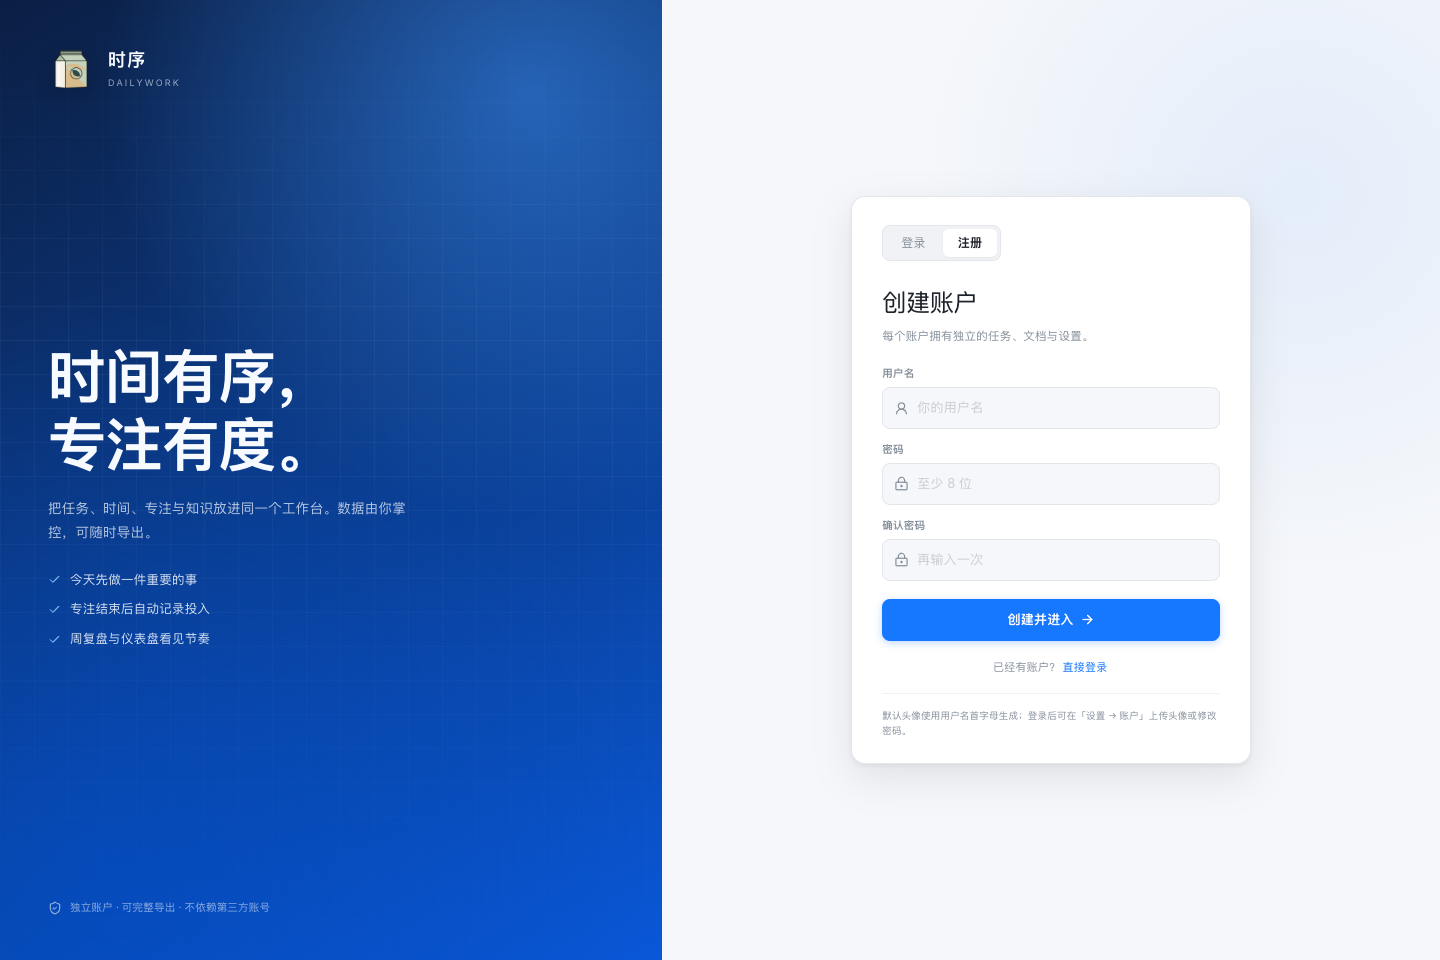
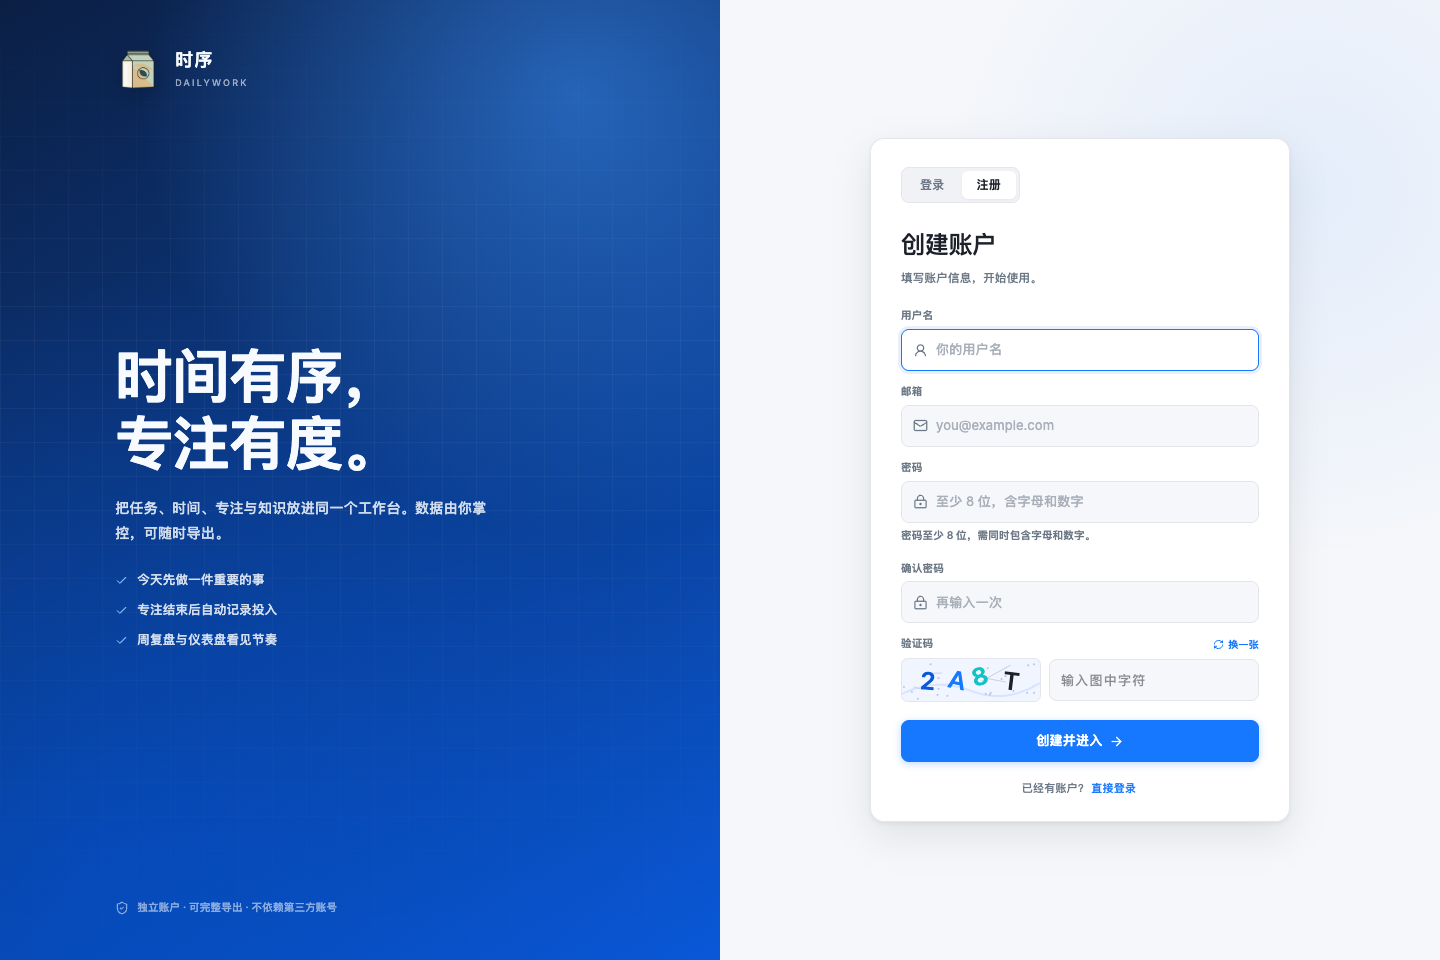
test(auth): cover email, password and captcha flows
- update browser setup and registration journey with required email
- disable captcha only in the test server while covering it in Vitest
- refresh registration screenshots for the wide-screen layout

diff --git a/e2e/auth-ui.spec.ts b/e2e/auth-ui.spec.ts
@@ -9,7 +9,8 @@ test.describe.serial('accounts', () => {
     await expect(page.locator('.auth-shell')).toBeVisible()
     await page.getByRole('tab', { name: '注册' }).click()
     await page.getByPlaceholder('你的用户名').fill(username)
-    await page.getByPlaceholder('至少 8 位').fill(password)
+    await page.getByPlaceholder('you@example.com').fill(`${username}@example.com`)
+    await page.getByPlaceholder('至少 8 位，含字母和数字').fill(password)
     await page.getByPlaceholder('再输入一次').fill(password)
     await page.locator('.auth-submit').click()
     await expect(page.locator('.app')).toBeVisible({ timeout: 15_000 })
@@ -28,7 +29,7 @@ test.describe.serial('accounts', () => {
     await page.getByRole('button', { name: '退出' }).click()
     await expect(page.locator('.auth-shell')).toBeVisible()
     await page.getByPlaceholder('你的用户名').fill(username)
-    await page.getByPlaceholder('至少 8 位').fill(password)
+    await page.getByPlaceholder('请输入密码').fill(password)
     await page.locator('.auth-submit').click()
     await expect(page.locator('.app')).toBeVisible({ timeout: 15_000 })
   })

diff --git a/e2e/auth.setup.ts b/e2e/auth.setup.ts
@@ -3,7 +3,7 @@ import { test as setup, expect } from '@playwright/test'
 setup('create an account for the test run', async ({ page }) => {
   const username = `e2e_${Date.now()}`
   const response = await page.request.post('/api/auth/register', {
-    data: { username, password: 'e2e-password-123' },
+    data: { username, email: `${username}@example.com`, password: 'e2e-password-123' },
   })
   expect(response.ok()).toBeTruthy()
   const body = (await response.json()) as { ok: boolean }

diff --git a/playwright.config.ts b/playwright.config.ts
@@ -50,7 +50,7 @@ export default defineConfig({
   webServer: [
     {
       command:
-        'rm -rf .data-e2e && DAILYWORK_DATA_DIR="$PWD/.data-e2e" DAILYWORK_PORT=47821 pnpm dev:server',
+        'rm -rf .data-e2e && DAILYWORK_DATA_DIR="$PWD/.data-e2e" DAILYWORK_PORT=47821 DAILYWORK_CAPTCHA_DISABLED=1 pnpm dev:server',
       url: 'http://127.0.0.1:47821/api/health',
       reuseExistingServer: !process.env.CI,
       timeout: 120_000,
